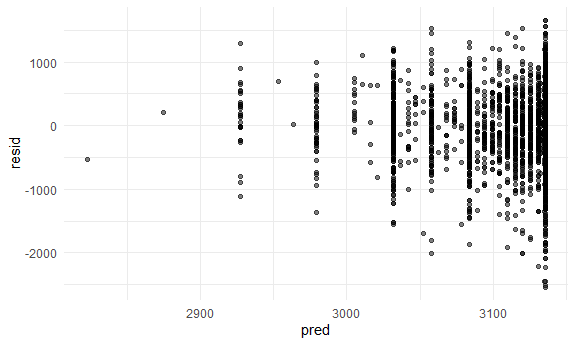
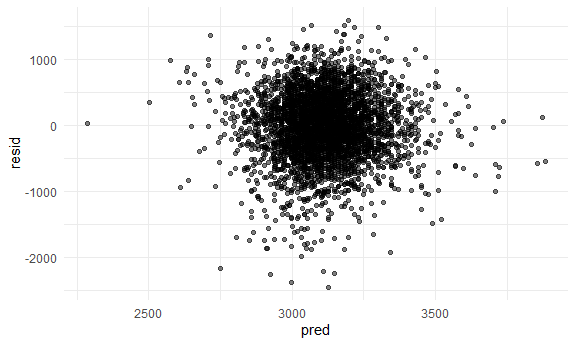
done

diff --git a/p8105_hw6_cz2689.md b/p8105_hw6_cz2689.md
@@ -134,25 +134,25 @@ York NY has the lowest OR.
 
 ``` r
 p3 = read_csv(file = "./data/birthweight.csv") %>% 
-     janitor::clean_names()
+     janitor::clean_names() %>%
+  drop_na(smoken) %>% 
+  drop_na(wtgain)
 ```
 
-    ## Rows: 4342 Columns: 20
-    ## ── Column specification ────────────────────────────────────────────────────────
-    ## Delimiter: ","
-    ## dbl (20): babysex, bhead, blength, bwt, delwt, fincome, frace, gaweeks, malf...
-    ## 
-    ## ℹ Use `spec()` to retrieve the full column specification for this data.
-    ## ℹ Specify the column types or set `show_col_types = FALSE` to quiet this message.
+Since the two variables that I am using are all treated as continuous
+variable, I will not be convert them to factor variable. Just in case, I
+drop all the missing value among them.
 
 ## Model Building
 
 According to CDC, cigarettes smoking behavior of mother has a role in
 child birth weight. I will use `smoken` average number of cigarettes
-smoked per day during pregnancy as my main predictor to build my model.
+smoked per day during pregnancy as my predictor to build my model. Also,
+I will use `wtgain` mother’s weight gain during pregnancy (pounds). This
+variable might suggest how well the mother’s diets are during pregnancy.
 
 ``` r
-linear_mod = lm(bwt ~ smoken, data = p3)
+linear_mod = lm(bwt ~ smoken + wtgain, data = p3)
 
 p3 %>% 
   add_predictions(linear_mod) %>% 
@@ -175,7 +175,7 @@ cv_df =
 cv_df = 
   cv_df %>% 
   mutate(
-    my_mod = map(train, ~lm(bwt ~ smoken, data = .x)),
+    my_mod = map(train, ~lm(bwt ~ smoken + wtgain, data = .x)),
     alt_mod1 = map(train, ~lm(bwt ~ blength + gaweeks, data = .x)),
     alt_mod2 = map(train, ~lm(bwt ~ bhead + blength + babysex + bhead * blength
                               + bhead * babysex + blength * babysex
@@ -203,4 +203,5 @@ cv_df %>%
 <img src="p8105_hw6_cz2689_files/figure-gfm/unnamed-chunk-10-1.png" width="90%" />
 
 From the plot, we can see that `alt2` is better which is the one with
-the all of the interactions terms. It has much lower `rmse` value.
+the all of the interactions terms. It has much lower `rmse` value. My
+model is the worst, it has the highest `rmse`.
